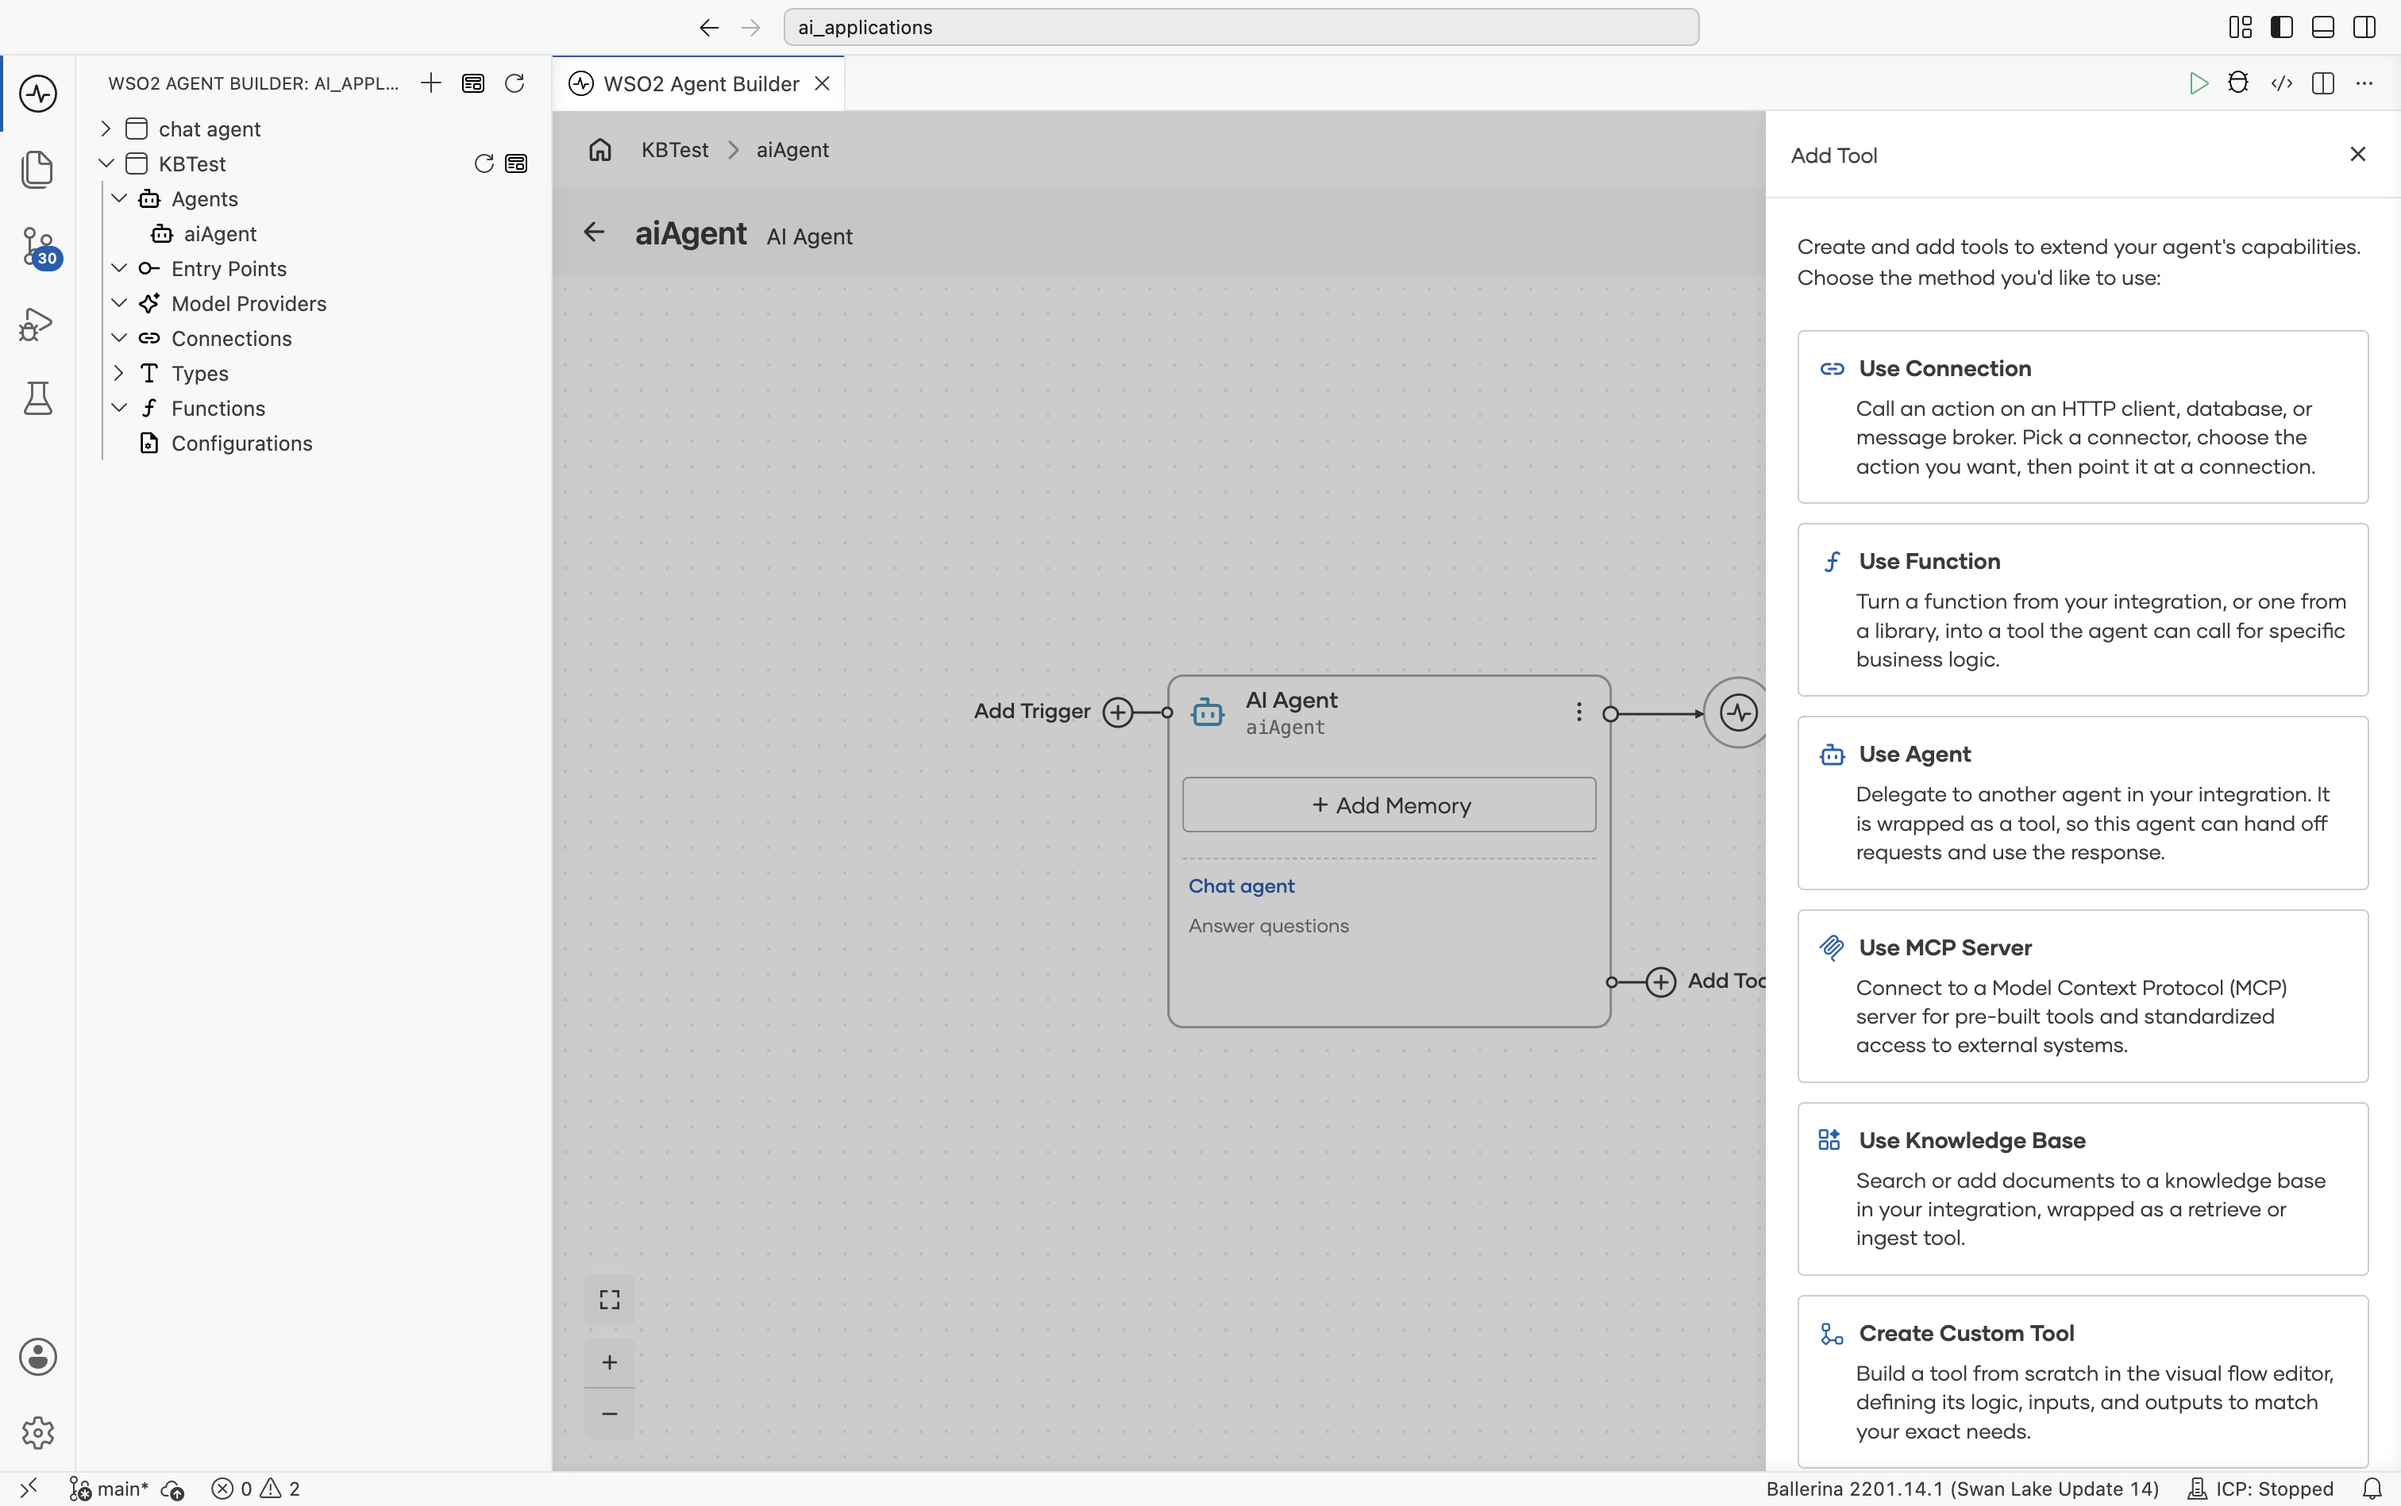
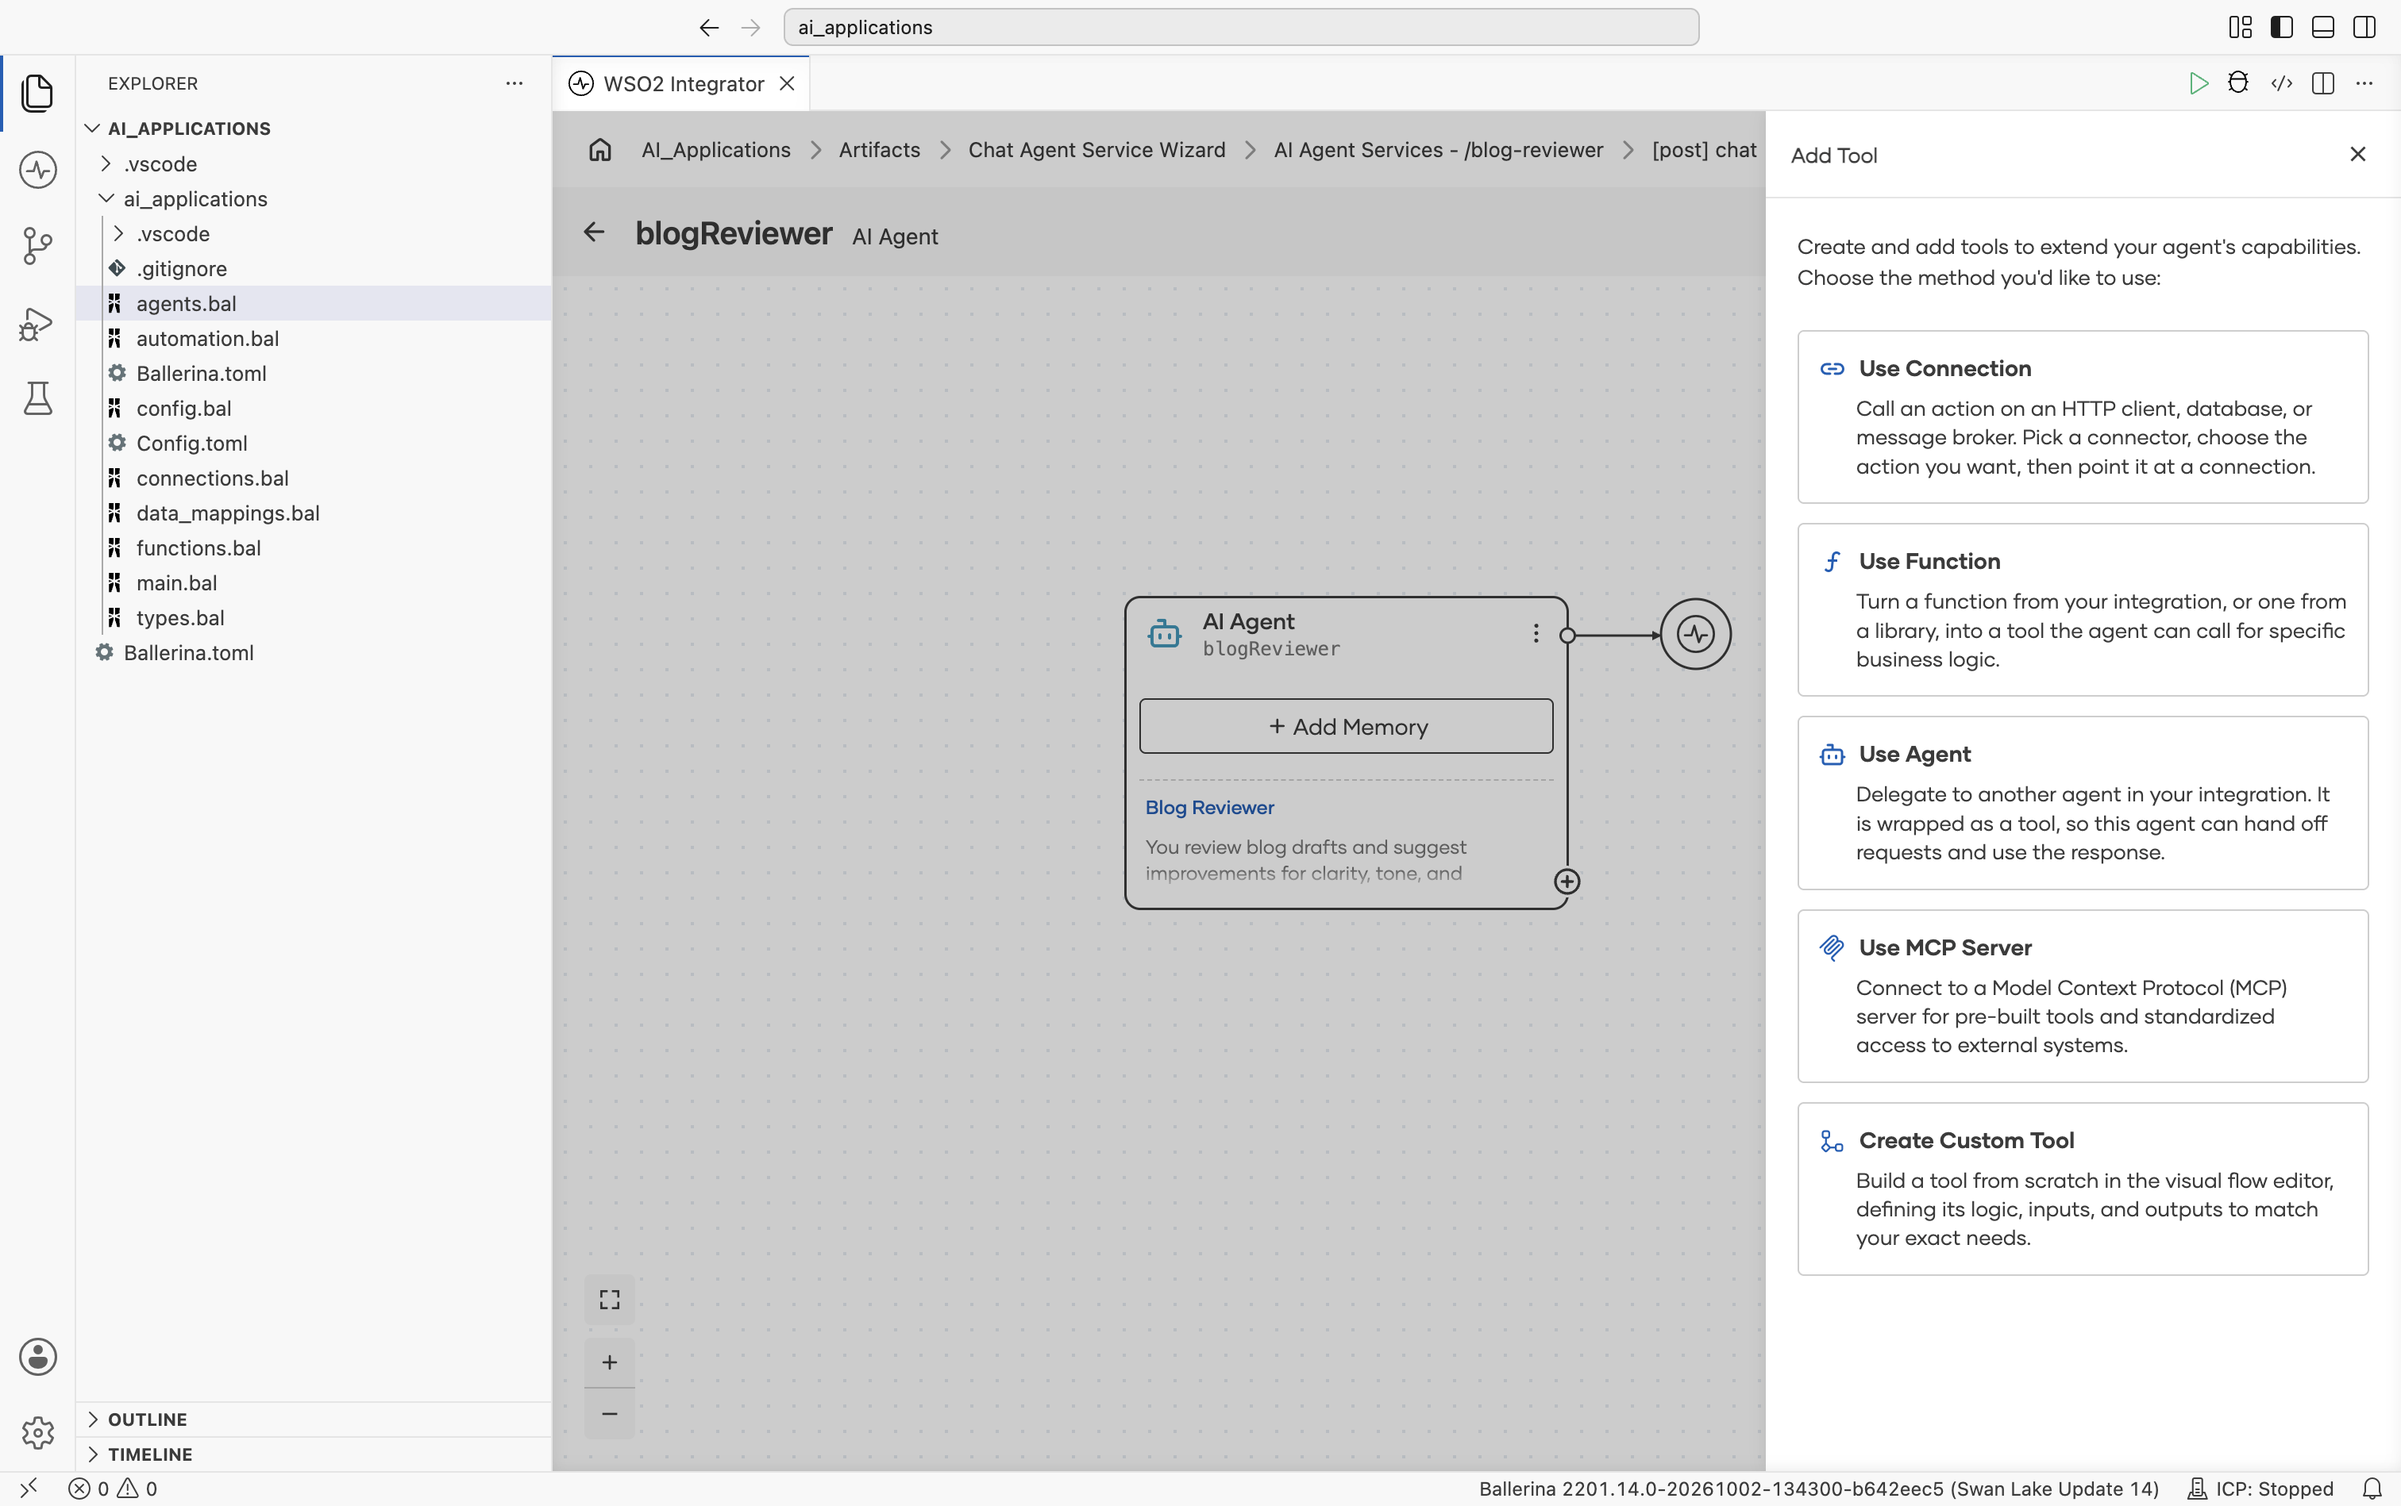
docs: use v1.0 suffix for agent tool images

diff --git a/en/docs/develop-and-test/integration-artifacts/ai-integrations/agents/tools.md b/en/docs/develop-and-test/integration-artifacts/ai-integrations/agents/tools.md
@@ -33,8 +33,8 @@ This opens the **Add Tool** panel, where you can choose how to add capabilities 
 <ThemedImage
     alt="The Add Tool panel listing Use Connection, Use Function, Use Agent, Use MCP Server, Use Knowledge Base, and Create Custom Tool, each with a one-line description."
     sources={{
-        light: useBaseUrl('/img/genai/develop/agents-v5.1/tools/02-add-tool-panel-v5.1.png'),
-        dark: useBaseUrl('/img/genai/develop/agents-v5.1/tools/02-add-tool-panel-v5.1.png'),
+        light: useBaseUrl('/img/genai/develop/agents-v5.1/tools/02-add-tool-panel-v1.0.png'),
+        dark: useBaseUrl('/img/genai/develop/agents-v5.1/tools/02-add-tool-panel-v1.0.png'),
     }}
 />
 
@@ -209,8 +209,8 @@ Selecting **Use Knowledge Base** lets you choose an existing knowledge base in t
 <ThemedImage
     alt="The Add Tool - Use Knowledge Base picker listing Vector Knowledge Base, Bedrock Managed Knowledge Base, Bedrock Self-Managed Knowledge Base, Azure AI Search Knowledge Base, and WSO2 Cloud Knowledge Base."
     sources={{
-        light: useBaseUrl('/img/genai/develop/agents-v5.1/tools/17-use-knowledge-base-picker-v5.1.png'),
-        dark: useBaseUrl('/img/genai/develop/agents-v5.1/tools/17-use-knowledge-base-picker-v5.1.png'),
+        light: useBaseUrl('/img/genai/develop/agents-v5.1/tools/17-use-knowledge-base-picker-v1.0.png'),
+        dark: useBaseUrl('/img/genai/develop/agents-v5.1/tools/17-use-knowledge-base-picker-v1.0.png'),
     }}
 />
 
@@ -221,8 +221,8 @@ For example, selecting **Retrieve** on a Vector Knowledge Base opens the followi
 <ThemedImage
     alt="The Add Tool - Use Knowledge Base panel for the Vector Knowledge Base retrieve action. The Tool Name is retrieveTool, the description is prefilled, productKb is selected as the Knowledge Base Instance, and sections for Inputs and Mapping, OAuth Client Configuration, and Result Type are collapsed."
     sources={{
-        light: useBaseUrl('/img/genai/develop/agents-v5.1/tools/16-use-knowledge-base-config-v5.1.png'),
-        dark: useBaseUrl('/img/genai/develop/agents-v5.1/tools/16-use-knowledge-base-config-v5.1.png'),
+        light: useBaseUrl('/img/genai/develop/agents-v5.1/tools/16-use-knowledge-base-config-v1.0.png'),
+        dark: useBaseUrl('/img/genai/develop/agents-v5.1/tools/16-use-knowledge-base-config-v1.0.png'),
     }}
 />
 
